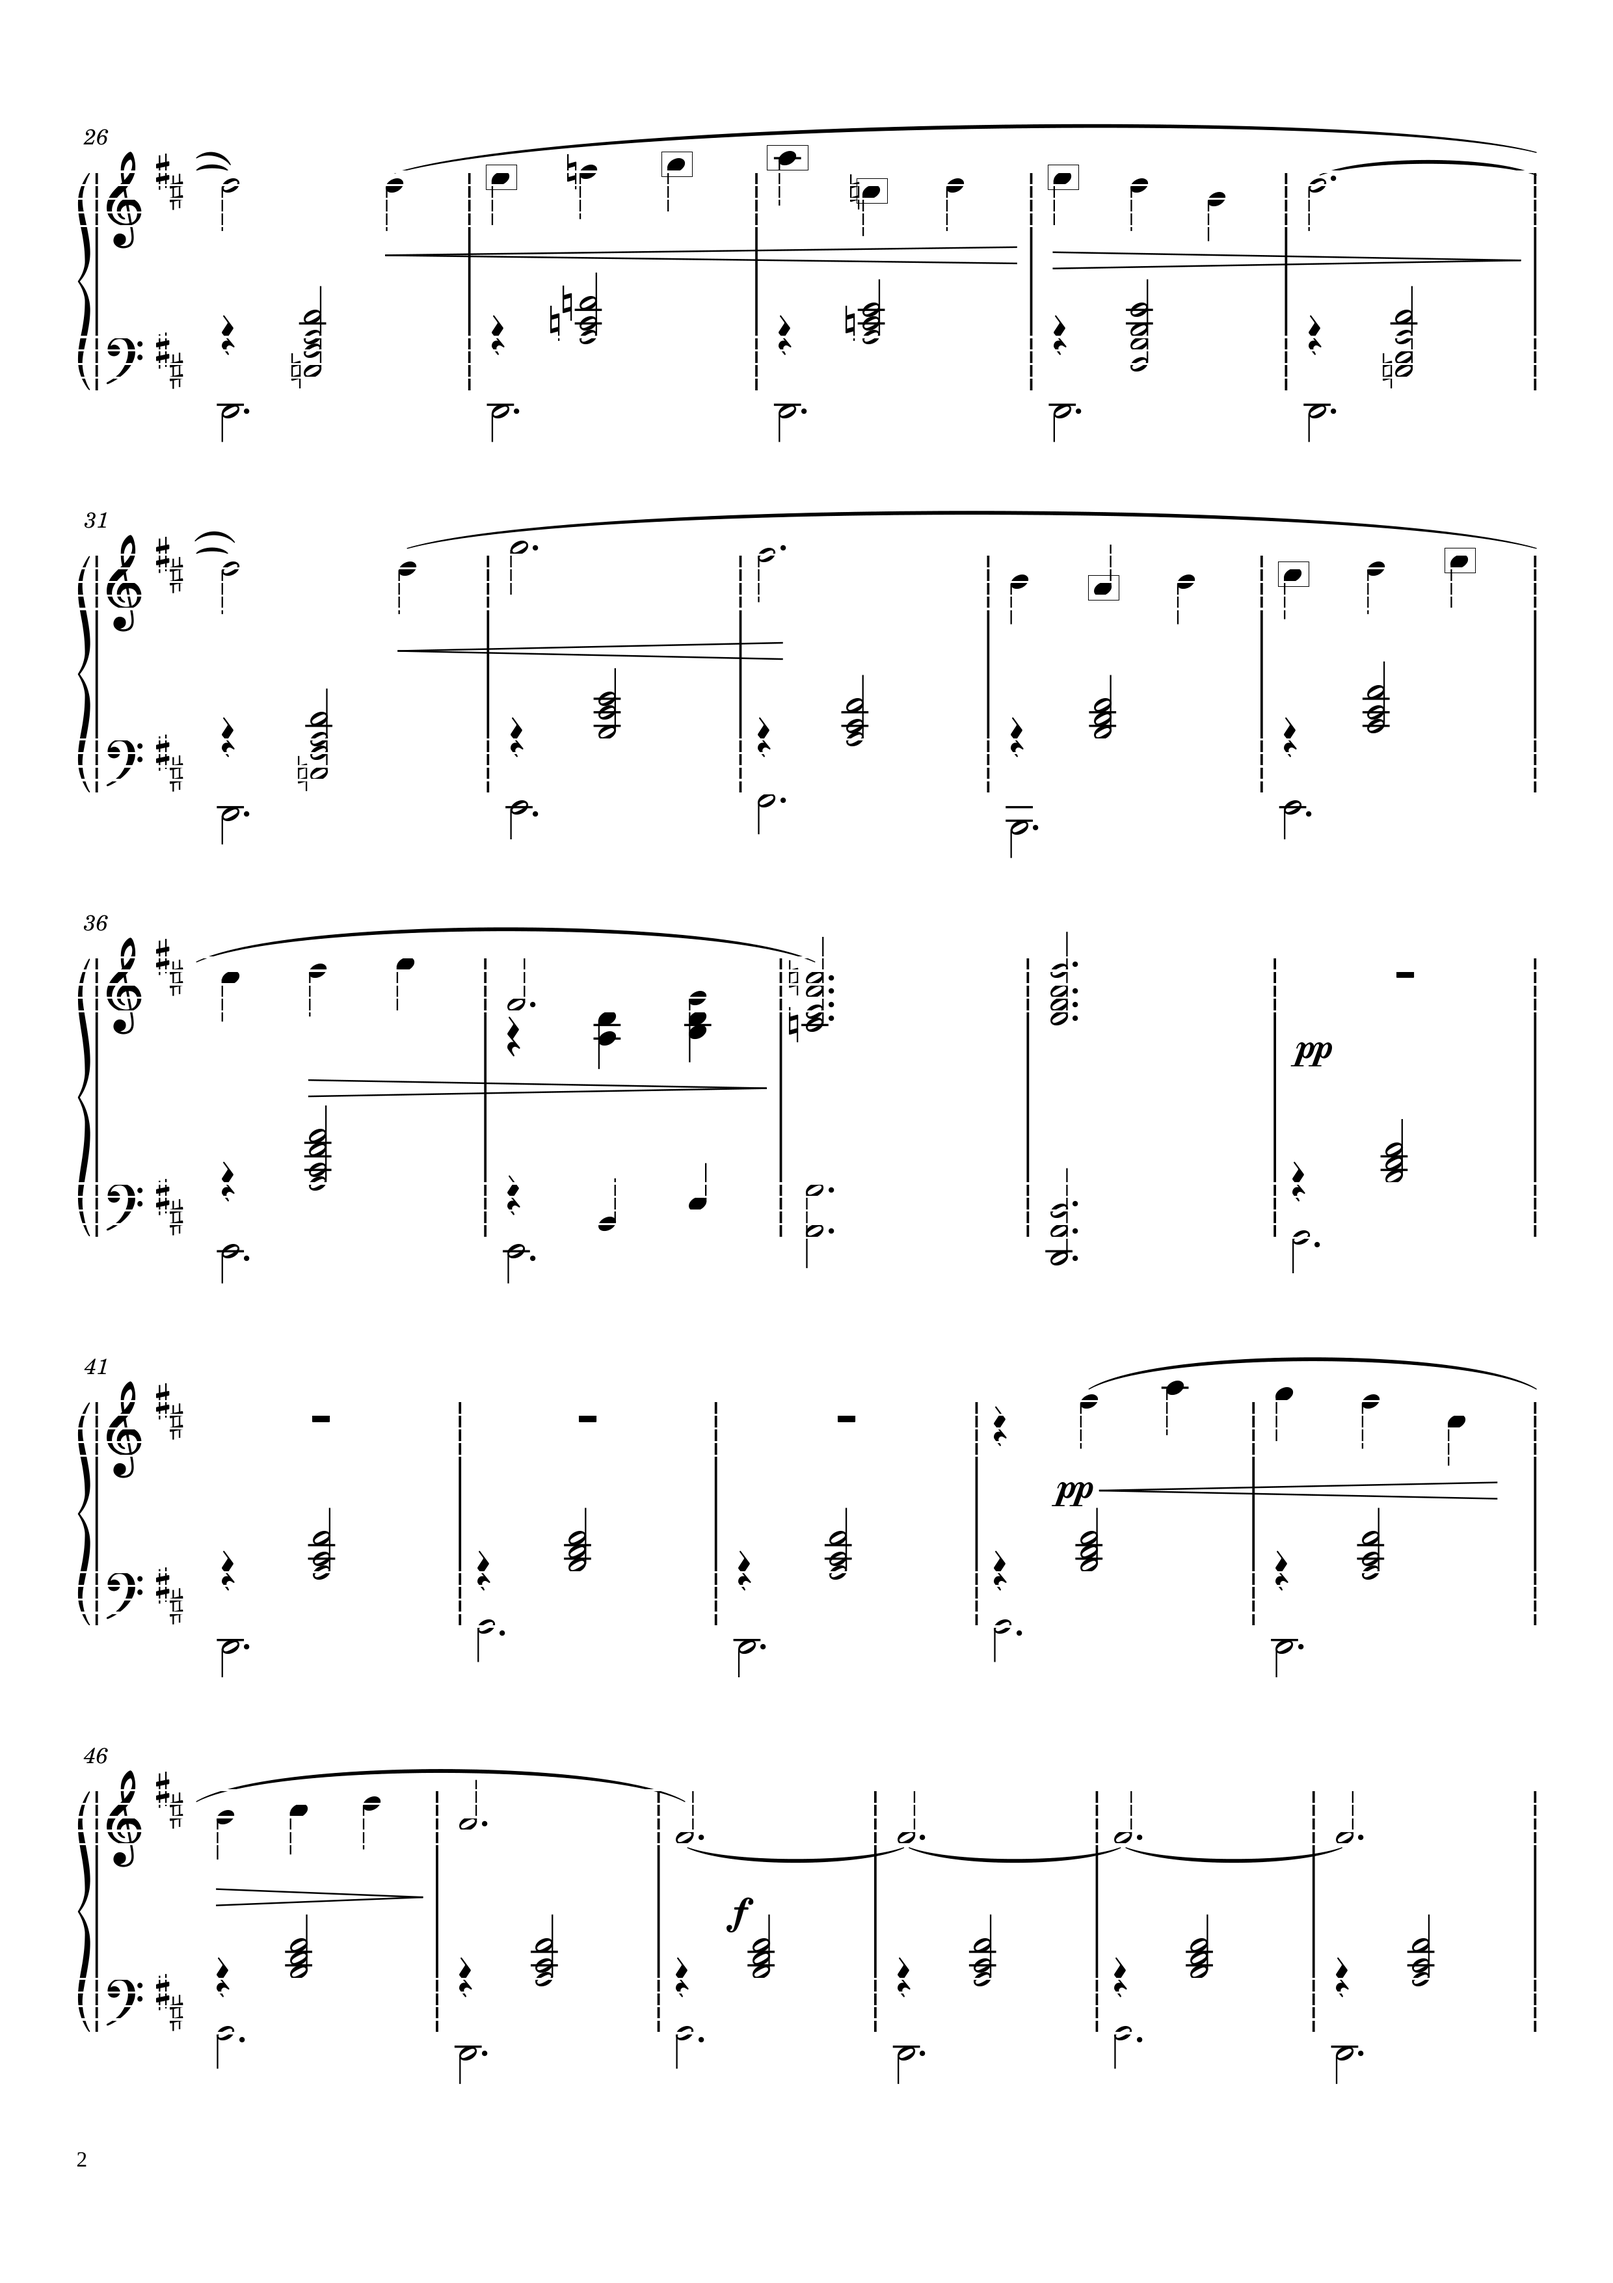
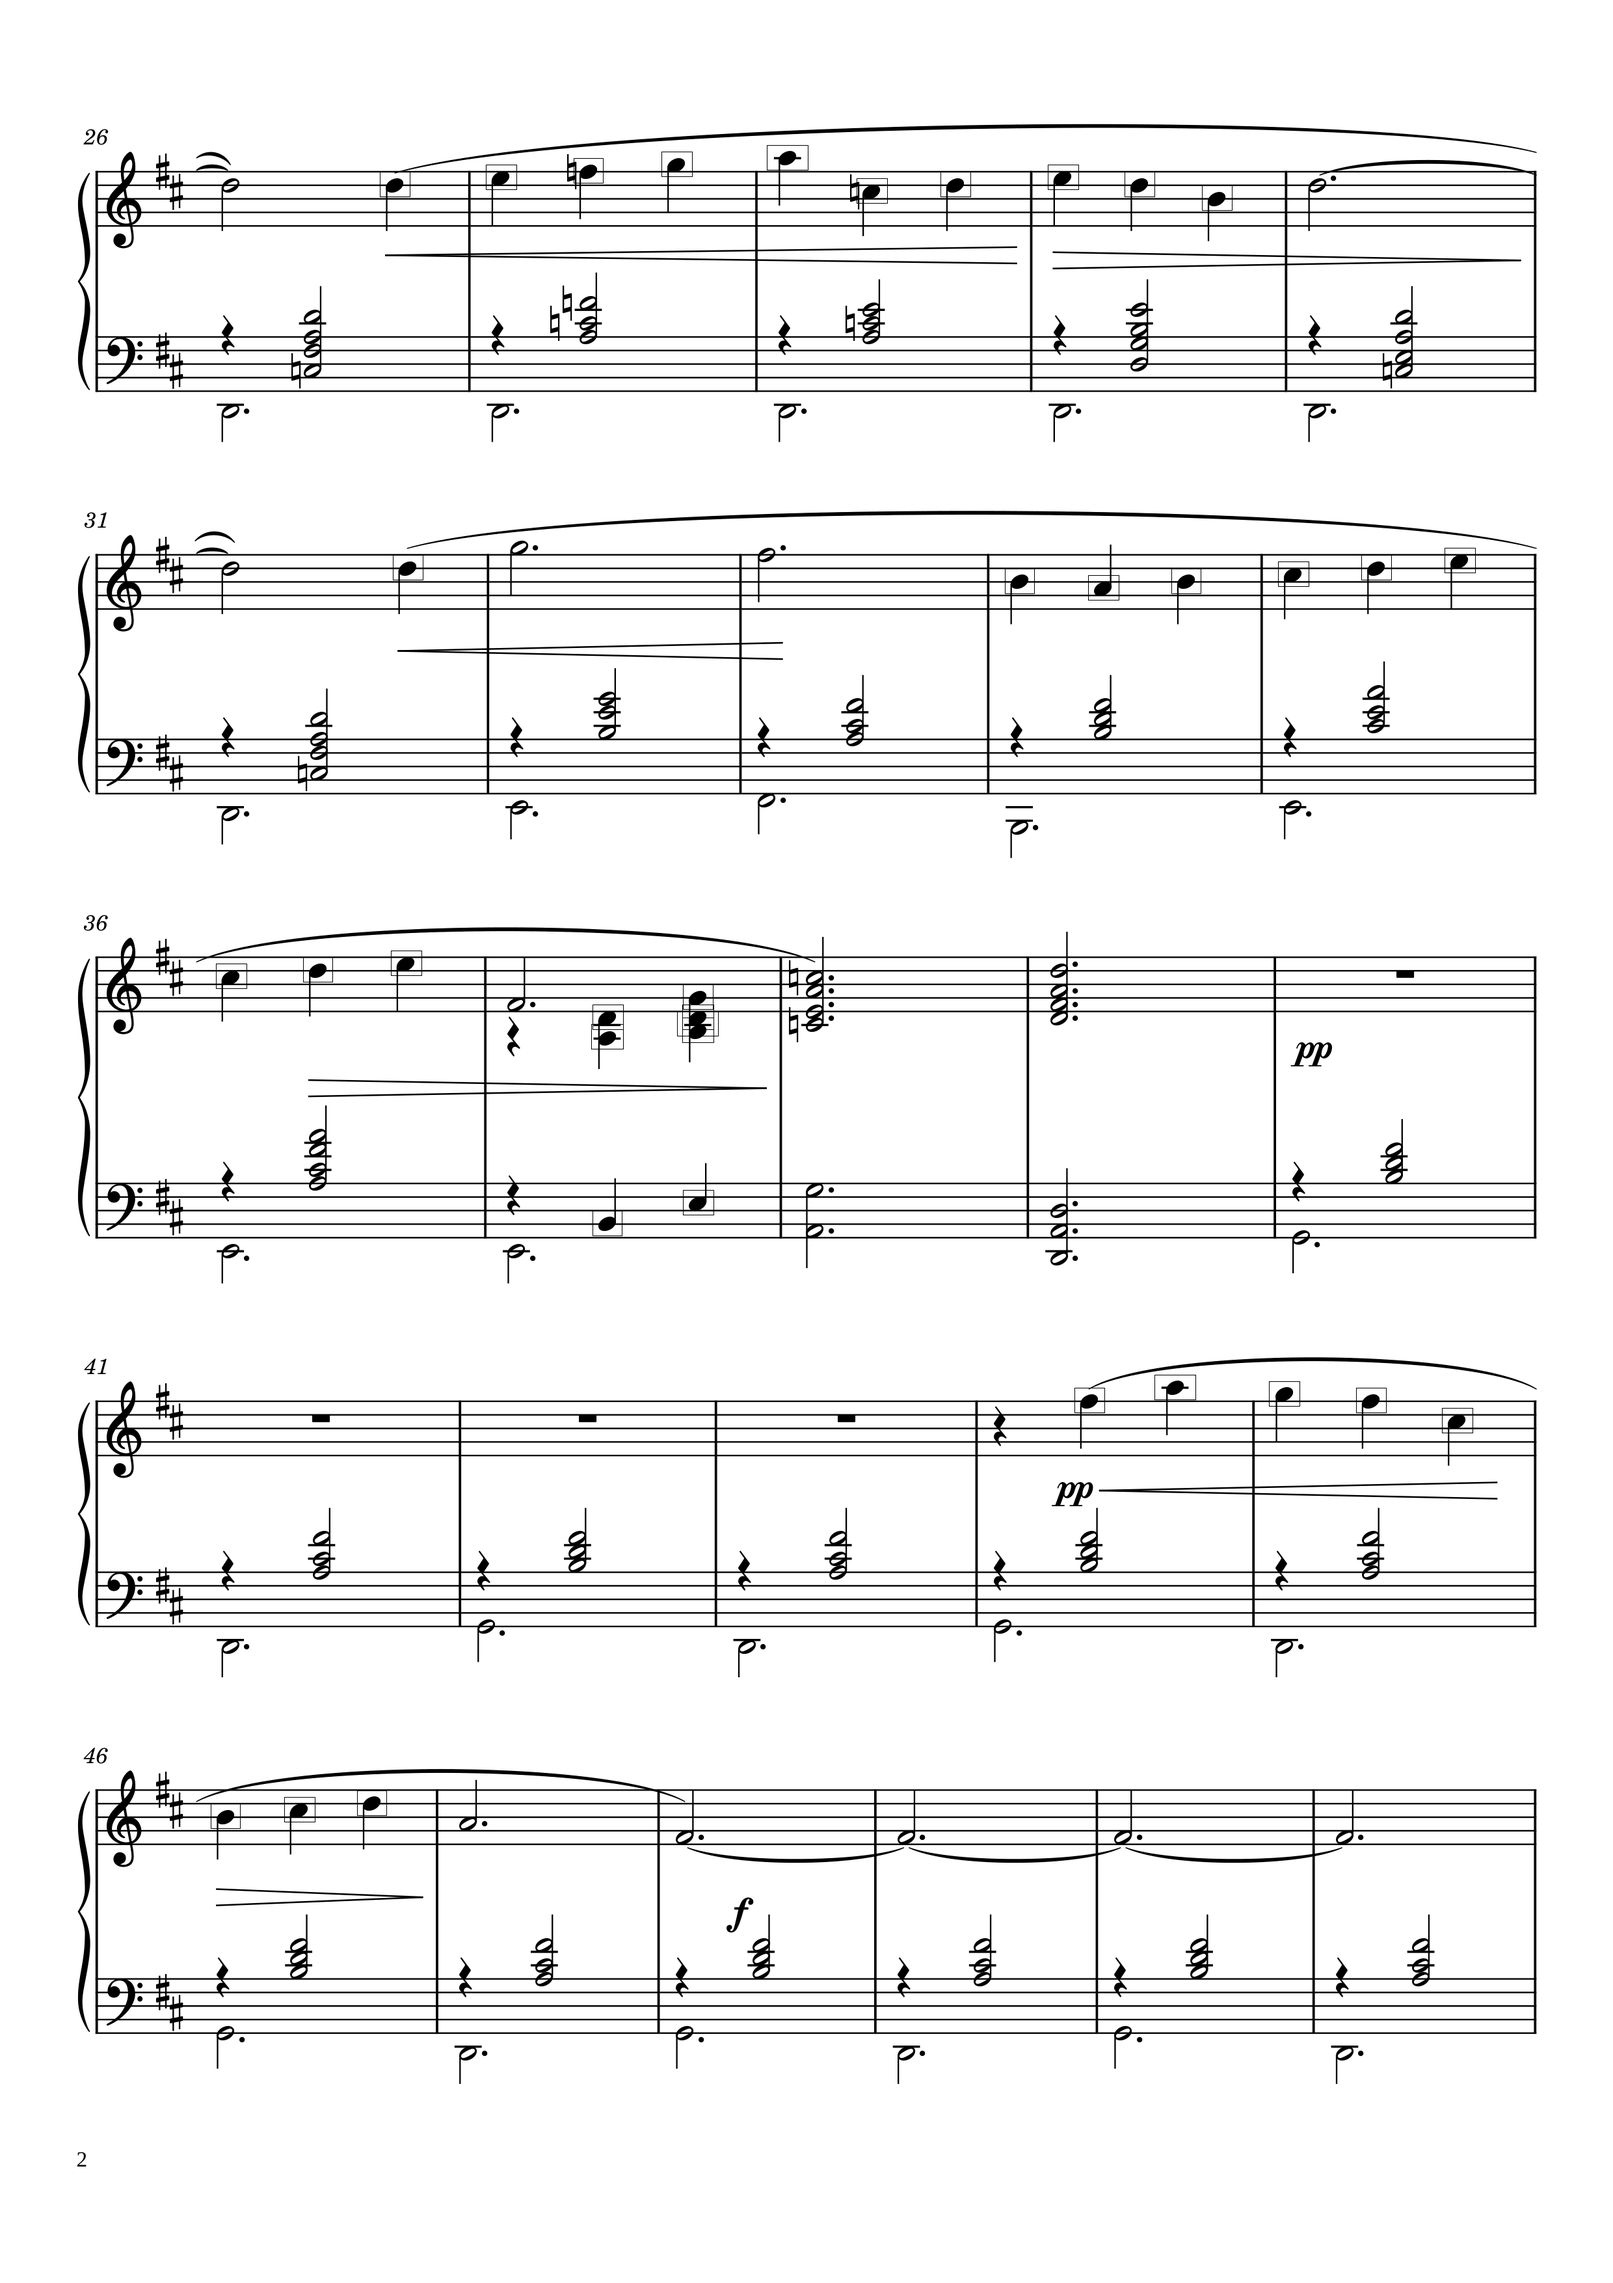
gofromhere

diff --git a/main.py b/main.py
@@ -1,20 +1,3 @@
-#make a review page for my amazing product on my website
-#work on making the going down logic for notes to be better!
-#make sure the lines r being removed
-#if we implement the decreasing stuff we might be able to forget the percentage thing
-#instead of circling black or white notes could also mark it right before based on the mode
-#then if there is a note in the vicinity we would then circle beau and jake told me this
-#going to need to use old column finding code to segment up once we find sharps and apply them
-#i am putting a 2 year cap on this project
-#it will be so satisfything when done
-
-
-
-#IF I FIX THE LINE REMOVAL STUFF I CAN NARROW DOWN THE AREA FOR The BLACK NOTES AND NOT IMPLEMENT THE SUPER COMPLICATED
-#DECREASING METHOD. THIS WAY I DON'T HAVE TO WORK ON TOO MUCH
-
-
-
 from PIL import Image, ImageDraw
 from pathlib import Path
 import fitz  # PyMuPDF
@@ -85,7 +68,16 @@ def extract_highlighted_lines_and_columns_from_image(image_path, threshold=2/3):
             if start_line != -1:
                 lines.append([0, start_line, width, row_index])
                 start_line = -1  # Reset start_line
-                
+
+    #replace the part we took out
+    for row in lines:
+        upper_line_y = row[1] - 1
+        bottom_line_y = row[3] 
+        for x_index in range(width):
+            if img_array[upper_line_y, x_index] != 255 and img_array[bottom_line_y, x_index] != 255:
+                for y in range(upper_line_y + 1, bottom_line_y):
+                    img_array[y, x_index] = 0
+    
     invisible_lines = []
 
     #Space it in middle for line identification
@@ -102,57 +94,36 @@ def extract_highlighted_lines_and_columns_from_image(image_path, threshold=2/3):
     
     group = []
 
-
-    #for these try to figure out how to do the "every other line removal"
-    #have to truly know what is going on w the logic below
-    half_height = round(difference_between_lines_for_line_drawing / 2)
     for row_index in range(len(lines)):
-        #the last line (5th) and down
         row = lines[row_index]
         current_y = row[1]
+        #this is when it is on the last line of a staff and ends up going down
         if (row_index + 1) % 5 == 0:
+            #Going to work on the removal of the every other line HERE!!!!
             if row_index == len(lines) - 1:
                 stopping_point = row[1] + staff_white_range
             else:
                 stopping_point = (row[1] + lines[row_index + 1][1]) / 2
-            counter = 1
             while current_y <= stopping_point:
                 group.append(current_y)
                 current_y += round(difference_between_lines_for_line_drawing / 2)
-                counter+=1
             invisible_lines.append(group)
             group = []
+        #this is on the first line of a staff and goes up 
         elif row_index % 5 == 0:
-            #first line and up
+            #Going to work on the removal of the every other line HERE!!!!
             if row_index == 0:
                 stopping_point = row[1] - staff_white_range
             else:
                 stopping_point = (row[1] + lines[row_index - 1][1]) / 2
-            counter = 1
             while current_y >= stopping_point:
                 group.append(current_y)
                 current_y -= round(difference_between_lines_for_line_drawing / 2)
-                counter+=1
             for add_row_index in range(4):
-                #everything in the middle
-                #everything here get's removed and replaced
-                future_line = lines[row_index + add_row_index + 1][1]                 
+                future_line = lines[row_index + add_row_index + 1][1] 
                 group.append(int((future_line + lines[row_index + add_row_index][1]) / 2))
                 if add_row_index != 3:
                     group.append(future_line)
-
-    for group in invisible_lines:
-        for current_loop_y in group:
-            #this will be line removal and fill in
-            #img_array[current_y - round(line_height / 2): current_y + round(line_height / 2), 0: width] = 255
-            print()
-    #might even reverse and just get everythng and then do the removal part 
-    img = Image.fromarray(img_array)
-    img.save(image_path)
-    print('saved image at ' + image_path)
-    #fill in the blank with all the groups invisible lines! --- look to notes for reference
-
-    #because i am fixing up the line removal we can apply the area thing to the black notes
 
     for group in invisible_lines:
         #It might have to do with this
@@ -167,15 +138,13 @@ def extract_highlighted_lines_and_columns_from_image(image_path, threshold=2/3):
             left = 0
             right = img_array.shape[1]
 
-            #Black notes
-
+            #black note here
             black_count = 0
-
             for x_index in range(width):
                 pixel = img_array[current_loop_y, x_index]
                 if pixel != 255 and x_index != width - 1:
                     black_count += 1
-                elif black_count >= difference_between_lines_for_line_drawing * 1.15:
+                elif black_count >= difference_between_lines_for_line_drawing * 1.15 and black_count < difference_between_lines_for_line_drawing * 5:
                     #apply my logic to see if it is a black note
                     middle_x = x_index - round(black_count / 2)
                     #-1 to discount the current one
@@ -187,35 +156,39 @@ def extract_highlighted_lines_and_columns_from_image(image_path, threshold=2/3):
                             black_note = False
                             black_count = 0
                     if black_note:
-                        little_increment = int(difference_between_lines_for_line_drawing / (7/3))
+                        #has to be x, y tuple
                         top_left = [x_index - black_count, current_loop_y - (round(difference_between_lines_for_line_drawing / 2) - 1)]
                         bottom_right = [x_index, current_loop_y + (round(difference_between_lines_for_line_drawing / 2) - 1)]
-                        roi = img_array[top_left[1]:bottom_right[1], top_left[0] + little_increment:bottom_right[0] - little_increment]
+                        roi = img_array[top_left[1]:bottom_right[1], top_left[0]:bottom_right[0]]
                         total_pixels = roi.size
                         non_white_pixels = np.sum(roi < 255)
                         non_white_percentage = (non_white_pixels / total_pixels) * 100
-                        if non_white_percentage > 80:
+                        if non_white_percentage > 70:
                             draw_example_rectangle(image_path, (top_left[0] - 10, top_left[1] - 10, bottom_right[0] + 10, bottom_right[1] + 10))
+                        #replace non-whitepercentage > 60 w something else like a new calculation
+                        #i can calculate a new thing
+                            
+
+
+                        #nest steps are everything it draws down below here with draw_example_rectange we will save it to a testing folder called cropped
+                        #this will try to figue out relative to the line height how to extract the whole not starting from  left to right
+                        #then we will use this area to calculate a new non_white_percentage once we figure out what percent of pixels we need to account for subtraction left or right
+                        #try to implement the area thing too for how big the outline can be!!!
                         elif black_count >= difference_between_lines_for_line_drawing * 1.5:
+                            #maybe here we could recalculate the non-white percentage to be around the note
+                            #we will have to test with imaging
+
+                            little_increment = int(difference_between_lines_for_line_drawing / (7/3))
+                   
                             new_roi = img_array[top_left[1]:bottom_right[1], top_left[0] + little_increment:bottom_right[0] - little_increment]
                             new_total_pixels = new_roi.size
                             new_non_white_pixels = np.sum(new_roi < 255)
                             new_non_white_percentage = (new_non_white_pixels / new_total_pixels) * 100
                             if new_non_white_percentage > 80:
-                                #have to do the going down pixel calculation
-                                #this way we go through each line
                                 draw_example_rectangle(image_path, (top_left[0] - 10, top_left[1] - 10, bottom_right[0] + 10, bottom_right[1] + 10))
                         black_count = 0
                 else:
                     black_count = 0
-            
-            #white notes
-            #once we implement the across white secross from black to black should be this much then, we can go up and down from the middle of white_count
-            #when we're going up and down if it qualifies we can take the column that went up and down and keep moving left and right
-            #we have to make sure the last black point and top black point decreases and increases
-            #could loop 5 times or the whole thing for that matter
-            #we could also do this for the black notes but it might be excess and could be a feature i add later on!
-                    
             # Crop the image
             cropped_img = img.crop((left, top, right, bottom))
 
